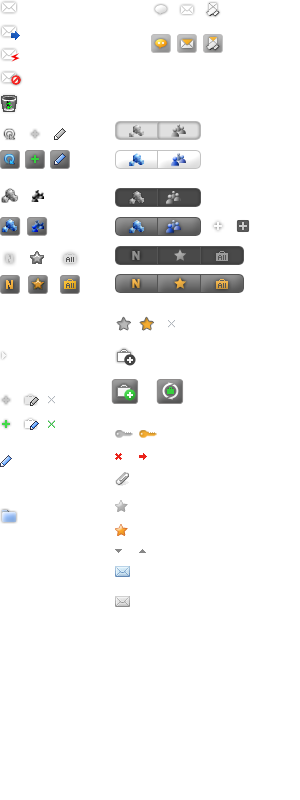
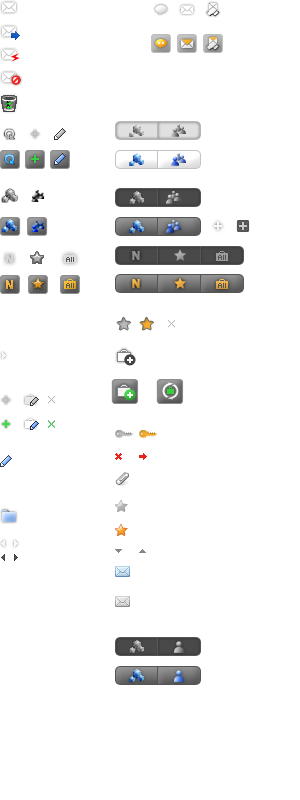
그룹공간_0626_2.html -  nav 포함됨

Changed region(s): [[0.36, 0.7812, 0.69, 0.875]]

diff --git a/WebContent/html/그룹공간_0626_2.html b/WebContent/html/그룹공간_0626_2.html
@@ -1,0 +1,254 @@
+<!DOCTYPE html PUBLIC "-//W3C//DTD XHTML 1.0 Transitional//EN" "http://www.w3.org/TR/xhtml1/DTD/xhtml1-transitional.dtd">
+<html xmlns="http://www.w3.org/1999/xhtml">
+<head>
+<meta http-equiv="Content-Type" content="text/html; charset=utf-8" />
+<title>Untitled Document</title>
+</head>
+<link href="../css/default.css" type="text/css" rel="stylesheet" />
+</link>
+<link href="../css/black/layout.css" type="text/css" rel="stylesheet" />
+</link>
+<link href="../css/black/detail.css" type="text/css" rel="stylesheet" />
+</link>
+<link href="../css/black/chat.css" type="text/css" rel="stylesheet" />
+</link>
+<link href="../css/black/form.css" type="text/css" rel="stylesheet" />
+</link>
+<link href="../css/black/pop.css" type="text/css" rel="stylesheet" />
+</link>
+<body>
+<!-- Navigation -->
+<div id="nav">
+		<!-- Nav Title -->
+		<div class="personal_info">
+            <ul>
+                <li>
+                    <a href="">
+                    <img class="profile_size_66" src="../images/no_user_picture.jpg">
+                    </a>
+                </li>
+                <li>
+                    <div>
+                    	<b>경영기획부</b>
+                    </div>
+                    <div>부서장: 김OO</div>
+                    <div>구성원수: 250명</div>
+                </li>
+            </ul>
+        </div>
+        
+        <div class="nav_list">
+            <ul class="nav_tit">
+             <li>
+                 <a class="js_collapse_parent_siblings arr_on" href="">업무</a>
+            </li>
+            </ul>
+        </div>
+		
+        <!-- 구성원 -->
+        <div class="nav_list">
+            <ul class="nav_tit">
+                <li>
+                    <a class="js_collapse_parent_siblings arr_on" href="">구성원</a>
+                </li>
+                <li class="nav_srch js_srch_my_com">
+                    <div class="srch srch_wsize">
+                    <input id="" class="nav_input js_auto_complete" type="text" href="community.sw" placeholder="사람,하위부서 찾기" title="사람,하위부서 찾기">
+                    <div class="srch_icon js_srch_x"></div>
+                    </div>
+                    <!-- nav 검색 리스트 -->
+                    <div class="nav_srch_list m0" style="display: none"></div>
+                    <!-- nav 검색 리스트 -->
+                </li>
+            </ul>
+            <!-- 구성원, 하위부서 탭 -->
+            <div class="nav_sub_list js_collapsible js_nav_my_com"> 
+            	<div class="tab_buttons js_nav_tab_com">
+                <a title="구성원" href="">
+                <span class="btn_member current"></span>
+                </a>
+                <a class="" title="하위부서" href="">
+                <span class="btn_depart current"></span>
+                </a>
+                <span class="fr ml2 js_progress_span"></span>
+                </div>
+                
+                <div id="my_communities">
+                	<ul>
+                        <li>
+                        <a title="" href="">
+                            <span class="icon_pe">
+                            <img class="profile_size_s" src="../images/no_user_picture_min.jpg">
+                            </span>
+                            <span class="nav_sub_area">부서장 김OO</span>
+                        </a>
+                        </li>
+                        <li>
+                        <a title="" href="">
+                            <span class="icon_pe">
+                            <img class="profile_size_s" src="../images/no_user_picture_min.jpg">
+                            </span>
+                            <span class="nav_sub_area">기획팀장 김OO</span>
+                        </a>
+                        </li>
+                        <li>
+                        <a title="" href="">
+                            <span class="icon_pe">
+                            <img class="profile_size_s" src="../images/no_user_picture_min.jpg">
+                            </span>
+                            <span class="nav_sub_area">마케팅장 김OO</span>
+                        </a>
+                        </li>
+                        <li>
+                        <a title="" href="">
+                            <span class="icon_pe">
+                            <img class="profile_size_s" src="../images/no_user_picture_min.jpg">
+                            </span>
+                            <span class="nav_sub_area">경영기획팀장 김OO</span>
+                        </a>
+                        </li>
+                    </ul>
+                    <!-- Paging -->
+                    <div class="nav_paginate">
+                    <span class="prev"> <a href=""></a></span> 1
+                    <span class="next"> <a href=""></a></span>
+                    </div>
+                    <!-- -->
+                </div>
+            </div>
+            <!-- 구성원, 하위부서 탭 //-->
+        </div>
+        <!-- 구성원 //-->
+        
+        <!-- 최근 이벤트 -->
+         <div class="nav_list recent">
+         	<div class="nav_tit">
+                	<div class="icon_event_works fn" href="">최근 이벤트</a></div>
+            </div>    
+            <ul>
+                <li>
+                <a href="">
+                <span class="t_date">11:00</span>
+                주간회의
+                </a>
+                </li>	
+                <li>
+                <a href="">
+                <span class="t_date">15:00</span>
+                마케팅팀 파트교육
+                </a>
+                </li>
+                <li>
+                <a href="">
+                <span class="t_date">18:00</span>
+                Smartworks3.0 기획 회의
+                </a>
+                </li>
+            </ul>
+        </div>
+        <!-- 최근 이벤트 //-->
+        
+         <!-- 최근 공지 -->
+          <div class="nav_list recent mb20">
+         	<div class="nav_tit">
+                	<div class="icon_board_works fn" href="">최근 공지</a></div>
+            </div>    
+            <ul>
+                <li>
+                    <a href="">
+                    <img class="profile_size_s" src="../images/no_user_picture_min.jpg"> 공지입니다. <span class="t_date fr">06.16 12:40</span>
+                    </a>
+                </li>	
+                <li>
+                    <a href="">
+                   <img class="profile_size_s" src="../images/no_user_picture_min.jpg"> 공지입니다. <span class="t_date fr">06.16 12:40</span>
+                    </a>
+                </li>
+               
+            </ul>
+        </div>
+        <!-- 최근 공지 //-->
+</div>
+
+<!-- Content -->
+<div id="content">
+<!-- Title -->
+<div class="body_titl p0">
+    <div class="body_titl_depart fl"></div>
+    <div class="info">
+    	<div class="title">나의 잠재력 깨우기</div>
+    	<div>나의 잠자고 있는 잠재력을 깨워 향상시키기 위한 모임입니다</div>
+        <div class="t_s11">
+        	<span class="mr7">전화번호: 080-3131-7878</span> <span class="mr7">팩스: 080-789-0987</span> 이메일: info@maninsoft.co.kr
+        </div>
+    </div>
+    <div class="solid_line"></div>
+</div>
+<!-- Title //-->
+  <!-- UP Load -->
+<div id="upload">upload</div>
+    <!-- UP Load //-->
+     
+    <!-- All List -->
+    <!-- Subjdct Menu -->   
+    	<ul class="subject_list">
+             <li>
+            	<a href="">전체보기</a>
+            </li>
+            <li class="on">
+            |
+            	<a href="">메모 </a>
+            </li>
+             <li>
+            |
+            	<a href="">사진</a>
+            </li>
+             <li>
+            |
+            	<a href="">파일</a>
+            </li>
+             <li>
+            |
+            	<a href="">이벤트</a>
+            </li>
+             <li>
+            |
+            	<a href="">공지</a>
+            </li>
+             <li>
+            |
+            	<a href="">업무</a>
+            </li>
+  </ul>
+         <!-- Subjdct Menu //--> 
+         <select class="fr mr5">
+         	<option>시간별</option>
+            <option>일별</option>
+            <option>주별</option>
+            <option>월별</option>
+         </select>
+    <div class="section_portlet cb">
+        <div class="portlet_t">
+            <div class="portlet_tl"></div>
+        </div>
+        <div class="portlet_l" style="display: block;">
+        <div class="portlet_r" style="display: block;">
+    	<!-- List -->
+        <div id="work_ing">
+        	<table class="js_instance_list_table">
+            <tbody>
+            <tr class="working_br instance_list">
+            <td> </td>
+            </tr>
+            </tbody>
+            </table>
+        </div>
+        <!-- List -->
+    	</div>
+        </div>
+        <div class="portlet_b" style="display: block;"></div>
+    </div>
+    <!-- All List -->   
+</div>
+</body>
+</html>

diff --git a/WebContent/css/black/layout.css b/WebContent/css/black/layout.css
@@ -147,6 +147,15 @@ tr.list_action_item:hover td.btn_move_field .move_actions{display:block; cursor:
 .nav_tit_mail, .nav_tit_default {background: url("../../images/naviti_mail_bg.jpg") repeat-x scroll 0 0; width:206px; padding:4px 10px 4px; height:17px}
 .nav_tit_chat {background-color:#363636; border-top:1px solid #969696; width:205px; padding:10px}
 .nav_sub_list.coummi {min-height: 200px}
+.nav_list.recent {padding-bottom:10px}
+.nav_list.recent a:link, .nav_list.recent a:visited {color:#dddddd !important}
+.nav_list.recent .nav_tit { background:none; height:inherit; padding:7px 10px 3px}
+.nav_list.recent .icon_event_works, .nav_list.recent .icon_board_works {border-bottom: 1px dotted #7A7A7A; line-height: 22px; padding:0 0 3px 22px; color:#FFF}
+.nav_list.recent .t_date { margin-right:3px}
+.nav_list.recent ul { line-height:16px}
+.nav_list.recent .recent_notice td {border-bottom:none}
+.recent li {padding:1px 10px; display:block; overflow: hidden; vertical-align:middle; position:relative; top:50%}
+.recent li:hover { display:block; background-color:#6b6b6b}
 
 .icon_aworks {background: url("../../images/body_icon.png") no-repeat -550px -708px transparent; padding:0 0 0 22px; line-height:18px; float: left; height:18px}
 .icon_dworks {background: url("../../images/icon_dworks.png") no-repeat left top transparent; padding:0 0 0 22px; line-height:18px; float: left; height:18px}
@@ -201,11 +210,14 @@ a .btn_folder_add {background: url("../../images/nav_img.png") no-repeat -25px -
 a .btn_folder_add:hover, .btn_folder_add.current {background: url("../../images/nav_img.png") no-repeat -25px -150px}
 
 /* Nav Community Btn */ 
-.btn_my_depart {background: url("../../images/nav_img.png") no-repeat -115px -188px transparent; height:20px; width:43px; display: inline-block; float:right}
-a .btn_my_depart:hover, .btn_my_depart.current {background: url("../../images/nav_img.png") no-repeat -115px -217px}
+.btn_depart {background: url("../../images/nav_img.png") no-repeat -115px -188px transparent; height:20px; width:43px; display: inline-block; float:right}
+a .btn_depart:hover, .btn_my_depart.current {background: url("../../images/nav_img.png") no-repeat -115px -217px}
 
 .btn_my_group {background: url("../../images/nav_img.png") no-repeat -158px -188px transparent; height:20px; width:43px; display: inline-block; float:right} 
 a .btn_my_group:hover, .btn_my_group.current {background: url("../../images/nav_img.png") no-repeat -158px -217px}
+
+.btn_member {background: url("../../images/nav_img.png") no-repeat -158px -637px transparent; height:20px; width:43px; display: inline-block; float:right} 
+a .btn_member:hover, .btn_member.current {background: url("../../images/nav_img.png") no-repeat -158px -666px}
 
 .btn_add_group {background: url("../../images/nav_img.png") no-repeat -212px -219px transparent; height:13px; width:13px; display: inline-block; float: right; margin: 2px 5px 0 0} 
  a .btn_add_group:hover {background: url("../../images/nav_img.png") no-repeat -237px -219px } 
@@ -480,11 +492,12 @@ li.comment_list:hover {background-color:#fffccd; cursor:pointer}
 /* Head Line Section */	
 .headline_section {position:relative; padding:10px 20px; overflow:hidden}
 .headline_section .area {background-color:#f5f5f5; -webkit-border-radius:4px;-moz-border-radius:4px;border-radius:4px; padding: 8px 10px; overflow:hidden; box-shadow: 0 0 4px #CCCCCC inset; line-height: 17px; max-height:175px}
+.headline_section .area .t_date { margin-right:3px}
 .headline_section > ul > li { width:45.5%; float:left}
 .headline_section > ul > li > div {margin-bottom:5px; overflow:hidden; border-bottom: 1px dotted #CFCFCF; padding-bottom: 3px}
 .headline_section > ul > li > div.end { margin:0; padding:0; border:none}
 .headline_section > ul > li > div > div { float:left; text-align:left}
-.headline_section > ul > li > div .date_space { margin-right:15px; font-size:11px; width: 51px; line-height: 16px; text-align:center}
+.headline_section > ul > li > div .date_space { margin-right:15px; font-size:11px; width: 54px; line-height: 16px; text-align:center}
 .headline_section > ul > li > div > div .day {color: #000000; font-family: arial; font-size: 21px; font-weight: bold;}
 .headline_section .area .tit {padding:0}
 .headline_section .area .tit span {font-weight:bold}
@@ -507,6 +520,16 @@ li.comment_list:hover {background-color:#fffccd; cursor:pointer}
 .noti_in [type="text"] {border:1px solid #c7c7c7; width:101px; height:20px} /* 전자결재 - 결재선 */
 .noti_in_s { margin-left:25px; line-height: 16px}
 .noti_in_m {word-wrap: break-word; text-align:left; padding:2px 0 0 58px} /* M사이즈 등록글 사용시*/
+.recent_notice { border-bottom:none !important}
+.recent_notice .end td {border-bottom:none !important}
+
+.recent_notice td{border-bottom:1px dotted #DCDFE0}
+.recent_notice .title{background: url("../../images/dotRed.gif") 1px 9px no-repeat;padding-left:10px}
+.recent_notice .title,.recent_notice .index{vertical-align:top}
+.recent_notice .title a{font-size:13px;font-weight:bold}
+.recent_notice .icon_division_s{background-position:0 3px}
+.recent_notice .date{font-weight:normal;text-align:right;white-space:nowrap}
+.recent_notice .title img,.headline_notice .index img{margin:0 3px 0 0}
 
 /*Event old */	
 .event_space {position:relative; width:99%; display:inline-block; margin-left:10px; }
@@ -527,13 +550,6 @@ li.comment_list:hover {background-color:#fffccd; cursor:pointer}
 .headline_notice .info{display:block;font-size:11px;color:#696969}
 .headline_notice .content{display:block;font-size:12px;border-top:1px dotted #cfcfcf;padding-top:2px;clear:right}
 .headline_notice .icon_division_s{background-position:70px 0;padding-left:90px}
-.recent_notice td{border-bottom:1px dotted #DCDFE0}
-.recent_notice .title{background: url("../../images/dotRed.gif") 1px 9px no-repeat;padding-left:10px}
-.recent_notice .title,.recent_notice .index{vertical-align:top}
-.recent_notice .title a{font-size:13px;font-weight:bold}
-.recent_notice .icon_division_s{background-position:0 3px}
-.recent_notice .date{font-weight:normal;text-align:right;white-space:nowrap}
-.recent_notice .title img,.headline_notice .index img{margin:0 3px 0 0}
 .headline_notice .index{font-size:11px;color:#666;overflow:hidden}
 .headline_notice .index span.date{float:right;margin-right:9px;font-weight:normal}
 

diff --git a/WebContent/css/black/detail.css b/WebContent/css/black/detail.css
@@ -192,6 +192,13 @@ a .proc_btn_next:hover {background: url("../../images/proc_bg.png") no-repeat -1
 
 .num_box {float:right; margin: -20px 5px 0; position:relative}
 
+/* Nav Paging */
+.nav_paginate {color:#dddddd; font-size:11px; margin:0 6px 0 0; text-align:right}
+.nav_paginate .prev a {background: url("../../images/nav_img.png") no-repeat 0 -538px transparent; display: inline-block; width:7px; height:9px}
+.nav_paginate .prev a:hover {background-position:0 -552px}
+.nav_paginate .next a {background: url("../../images/nav_img.png") no-repeat -12px -538px transparent; display: inline-block; width:7px; height:9px}
+.nav_paginate .next a:hover { background-position:-12px -552px}
+
 /* Prev Page, Next Page  */
 .move_btn_space {background-color: #f6f6f6; font-size: 11px; border-bottom: 1px solid #E8E8E8; border-top: 1px solid #E8E8E8; line-height: 20px; height:23px; text-align:right; padding-right: 5px}
 .move_btn_space.top {border-top: none}
